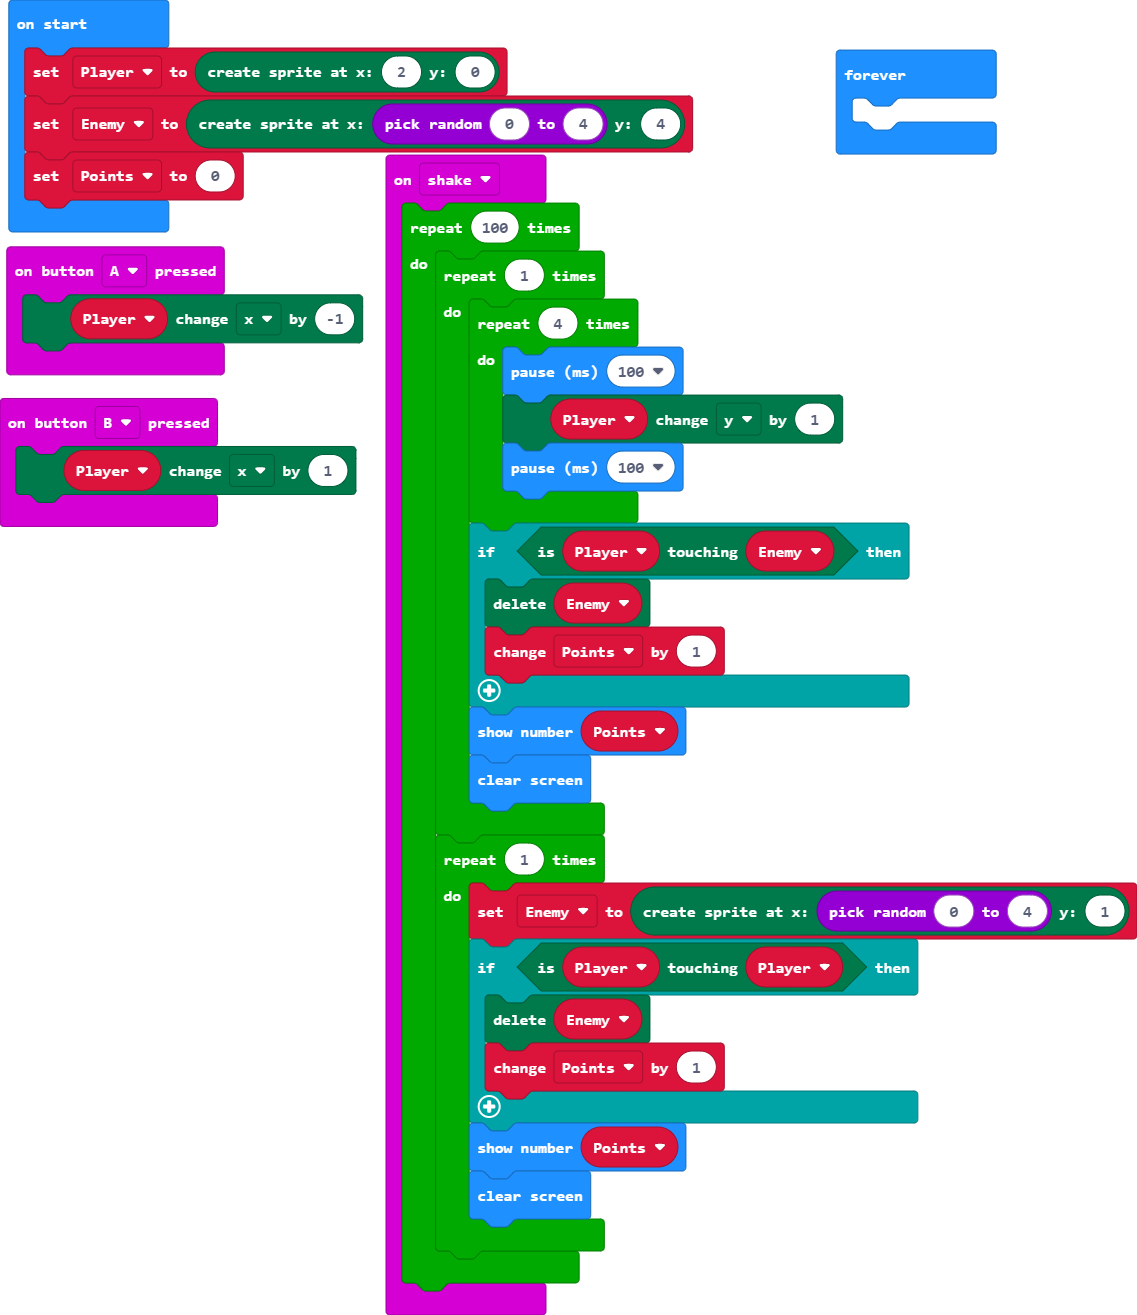
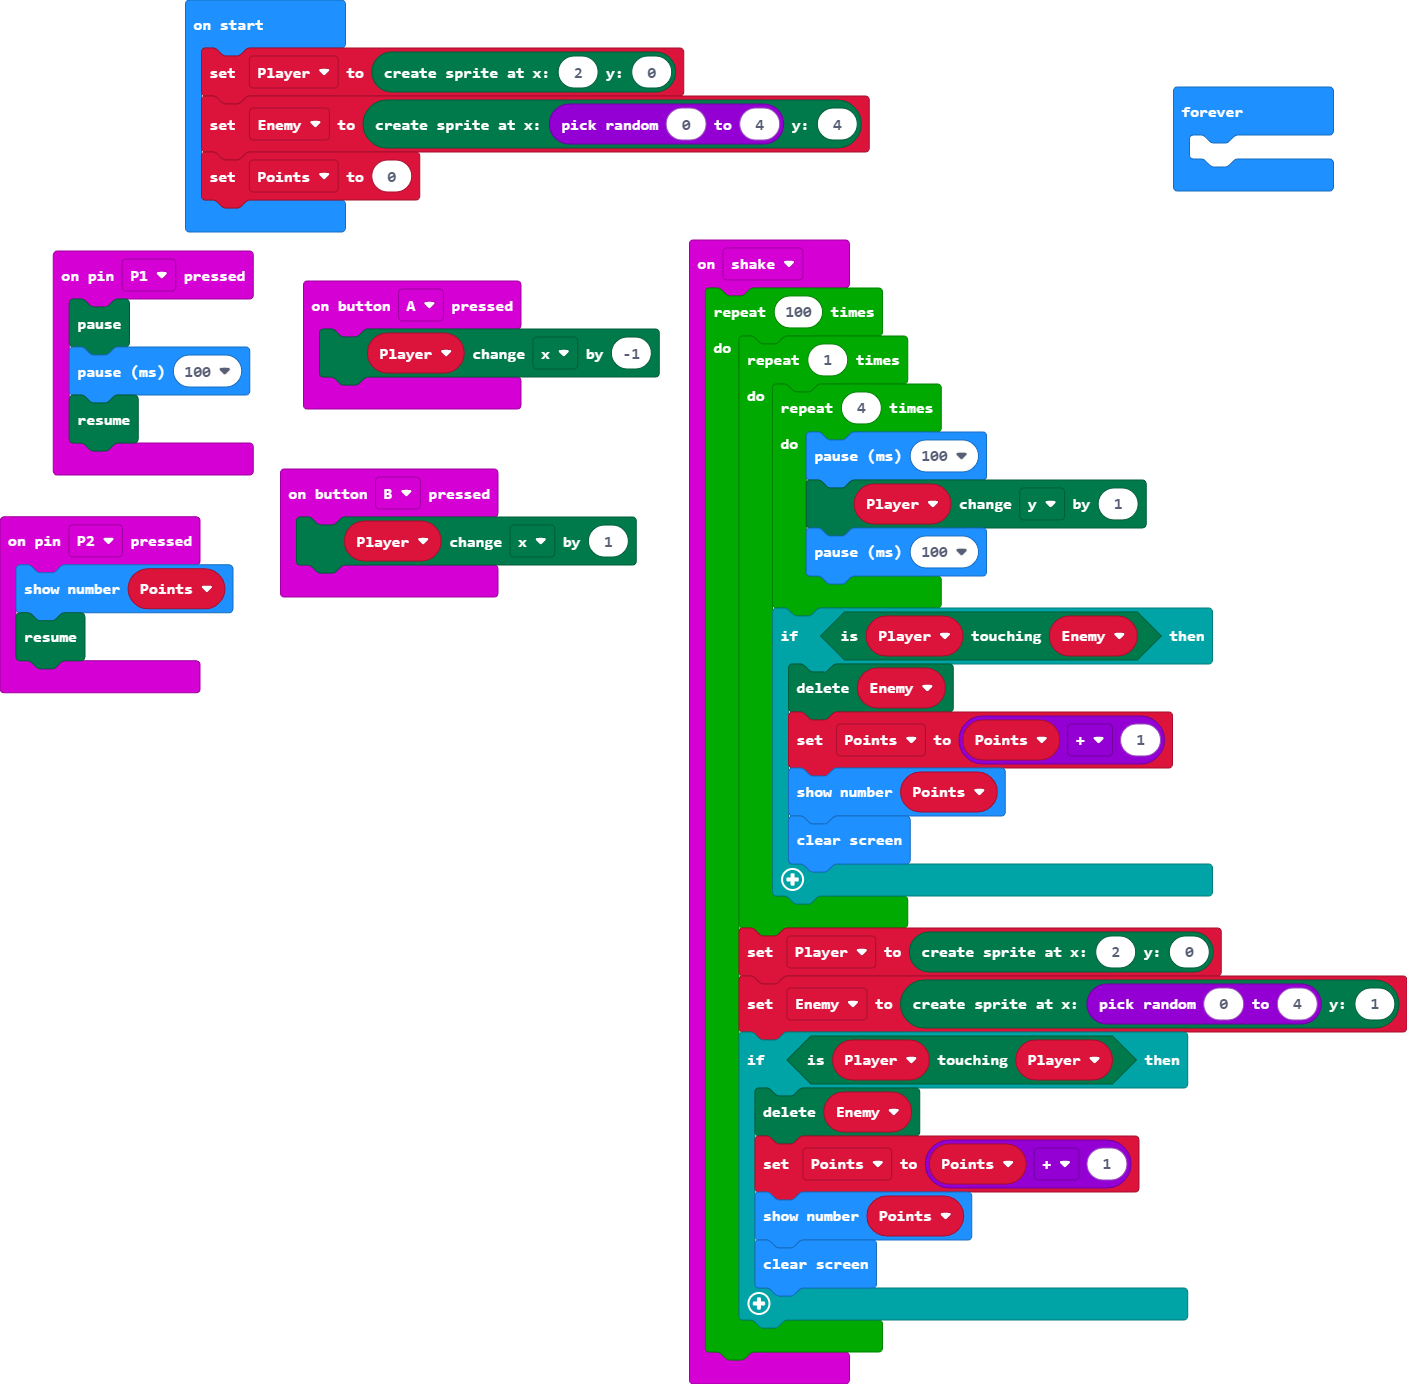
Update pxt.json, main.blocks, main.ts

diff --git a/main.ts b/main.ts
@@ -1,8 +1,17 @@
 input.onButtonPressed(Button.A, function () {
     Player.change(LedSpriteProperty.X, -1)
 })
+input.onPinPressed(TouchPin.P2, function () {
+    basic.showNumber(Points)
+    game.resume()
+})
 input.onButtonPressed(Button.B, function () {
     Player.change(LedSpriteProperty.X, 1)
+})
+input.onPinPressed(TouchPin.P1, function () {
+    game.pause()
+    basic.pause(100)
+    game.resume()
 })
 input.onGesture(Gesture.Shake, function () {
     for (let index = 0; index < 100; index++) {
@@ -14,17 +23,16 @@ input.onGesture(Gesture.Shake, function () {
             }
             if (Player.isTouching(Enemy)) {
                 Enemy.delete()
-                Points += 1
+                Points = Points + 1
+                basic.showNumber(Points)
+                basic.clearScreen()
             }
-            basic.showNumber(Points)
-            basic.clearScreen()
         }
-        for (let index = 0; index < 1; index++) {
-            Enemy = game.createSprite(randint(0, 4), 1)
-            if (Player.isTouching(Player)) {
-                Enemy.delete()
-                Points += 1
-            }
+        Player = game.createSprite(2, 0)
+        Enemy = game.createSprite(randint(0, 4), 1)
+        if (Player.isTouching(Player)) {
+            Enemy.delete()
+            Points = Points + 1
             basic.showNumber(Points)
             basic.clearScreen()
         }
